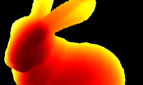
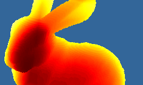
new stuff

diff --git a/teemdoc/trunk/html/nrrd/bunny/index.html b/teemdoc/trunk/html/nrrd/bunny/index.html
@@ -161,9 +161,8 @@ unu resample -i bunny.nhdr -s x0.3 x0.3 x0.4 \
    -ur -1.3 1.1 -vr -1.2 1.2 \
    -is 300 300 -step 0.005 -nt 30 \
    -q val -m histo-min -o - \
- | unu 2op exists - 3.0 \
  | unu heq -b 10000 -s 1 -a 0.5 \
- | unu rmap -m bbody.txt -r \
+ | unu imap -m bbody.txt -r \
  | unu quantize -b 8 -o bunny.png
 
 unu crop -i bunny.png -min 0 30 50 -max M M-31 m+140 \
